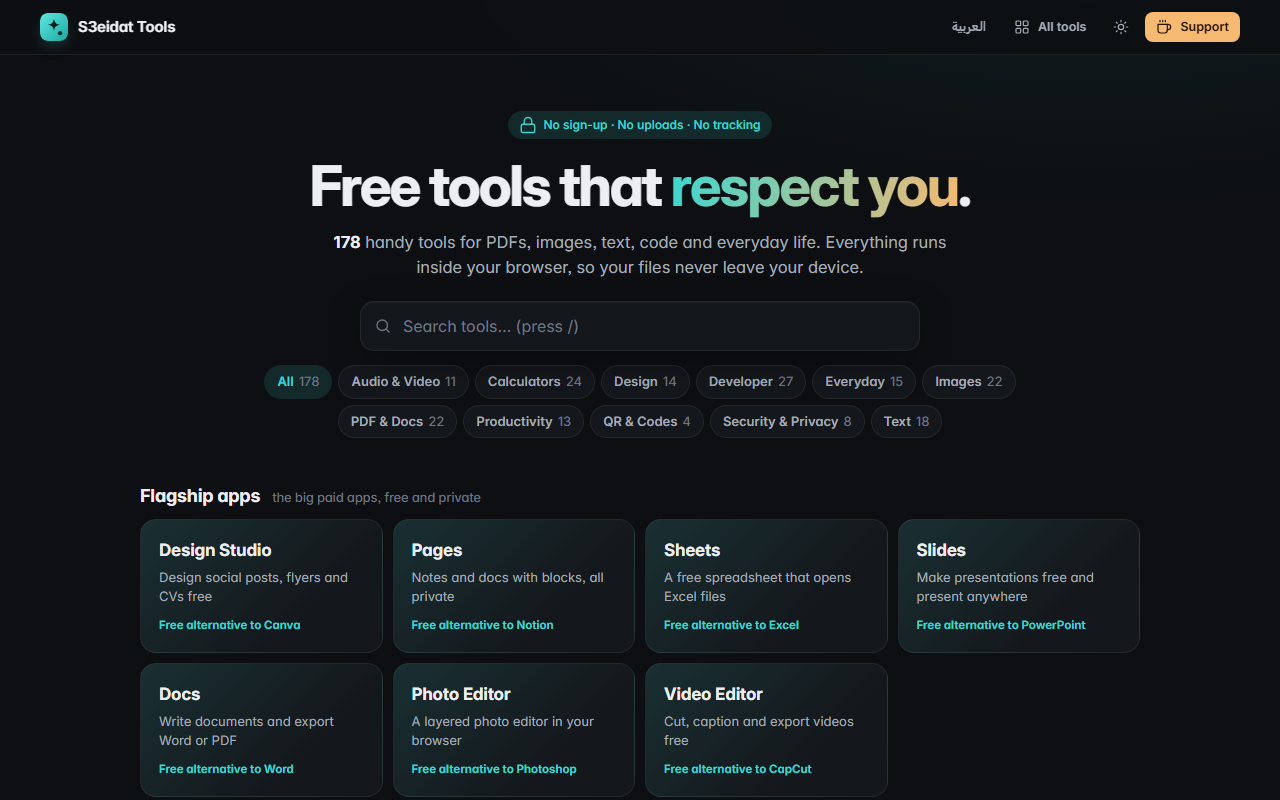
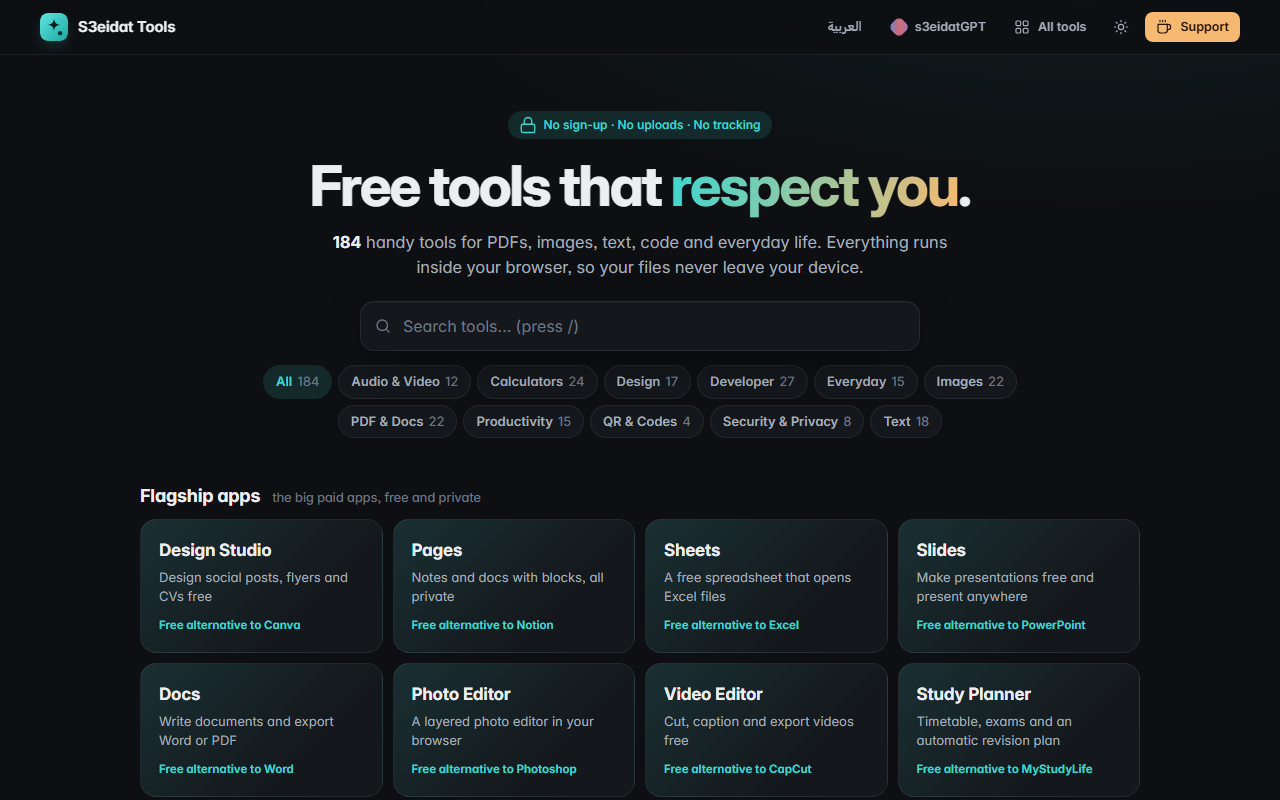
kit: s3eidatGPT link in the header of every page

diff --git a/kit/kit.js b/kit/kit.js
@@ -218,6 +218,8 @@
       '<span class="s3-spacer"></span><nav>' +
       // language switch only on hub pages; tool pages themselves are not translated
       (tool.slug ? "" : '<a class="btn ghost small" href="' + (AR ? "/" : "/ar/") + '" lang="' + (AR ? "en" : "ar") + '">' + (AR ? "English" : "العربية") + "</a>") +
+      // the owner's AI app, on every page (28 Oct 2026): one plain link, opens in a new tab, no script, no tracking
+      '<a class="btn ghost small s3-gpt" href="https://ai.s3eidat.com/?ref=s3tools-nav" target="_blank" rel="noopener" title="' + L("s3eidatGPT — AI that reads your PDFs, writes and studies with you", "s3eidatGPT — ذكاء اصطناعي يقرأ ملفاتك ويكتب ويذاكر معك") + '"><img src="' + esc(KIT_BASE) + 'gpt.png" alt="" width="18" height="18"><span class="s3-lbl">s3eidatGPT</span></a>' +
       '<a class="btn ghost small" href="' + home + '">' + icon("grid") + '<span class="s3-lbl">' + L("All tools", "كل الأدوات") + "</span></a>" +
       '<button class="btn ghost icon small" data-theme-toggle aria-label="' + L("Toggle theme", "تبديل المظهر") + '">' + icon("sun") + "</button>" +
       '<button class="btn coffee small" data-support>' + icon("coffee") + '<span class="s3-lbl">' + L("Support", "ادعمنا") + "</span></button></nav>";

diff --git a/kit/kit.css b/kit/kit.css
@@ -318,3 +318,7 @@ table.tbl { width: 100%; border-collapse: collapse; font-size: 13.5px; }
 }
 /* RTL: the select arrow sits on the left */
 [dir="rtl"] .select { padding-right: 12px; padding-left: 32px; background-position: 12px 50%, 17px 50%; }
+
+/* header link to s3eidatGPT (the owner's AI app) */
+.s3-top .s3-gpt { gap: 7px; }
+.s3-top .s3-gpt img { width: 18px; height: 18px; display: block; }
